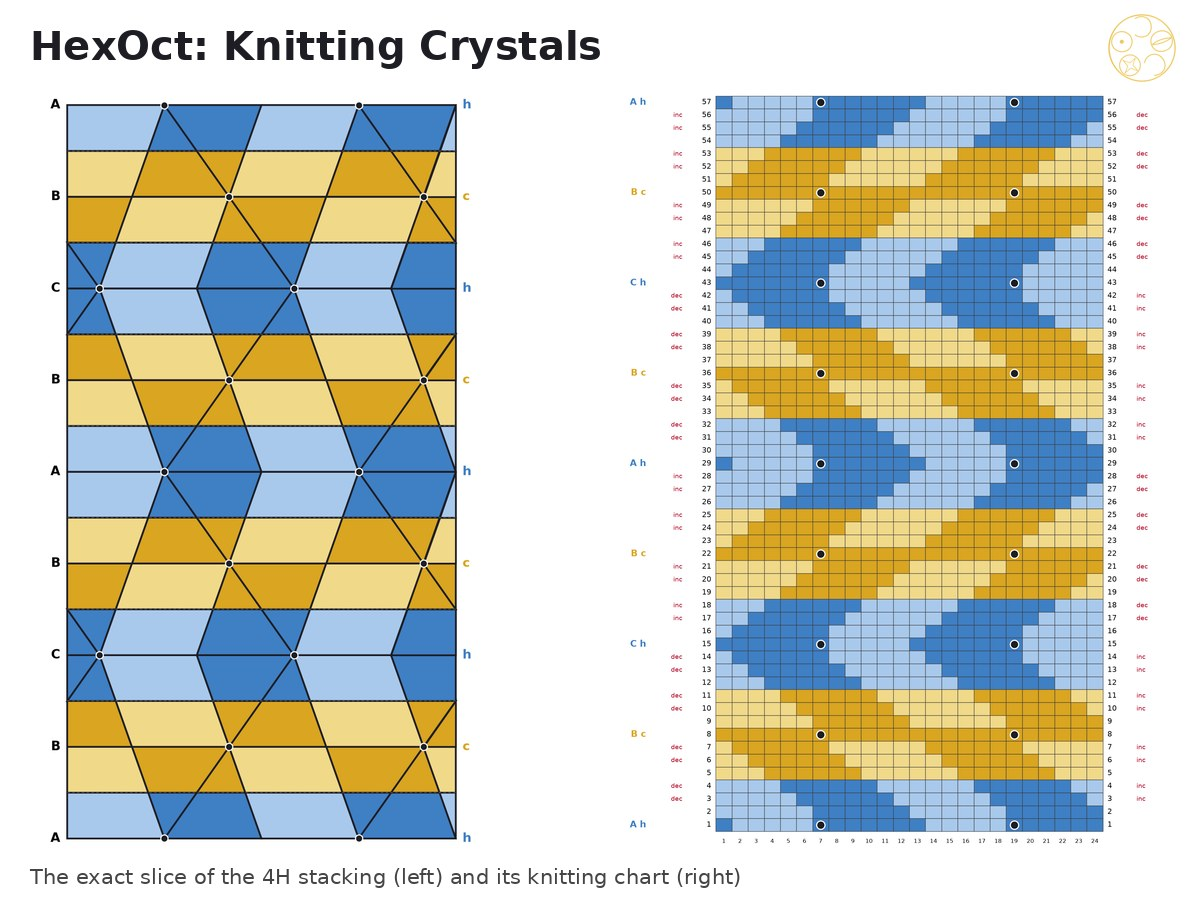
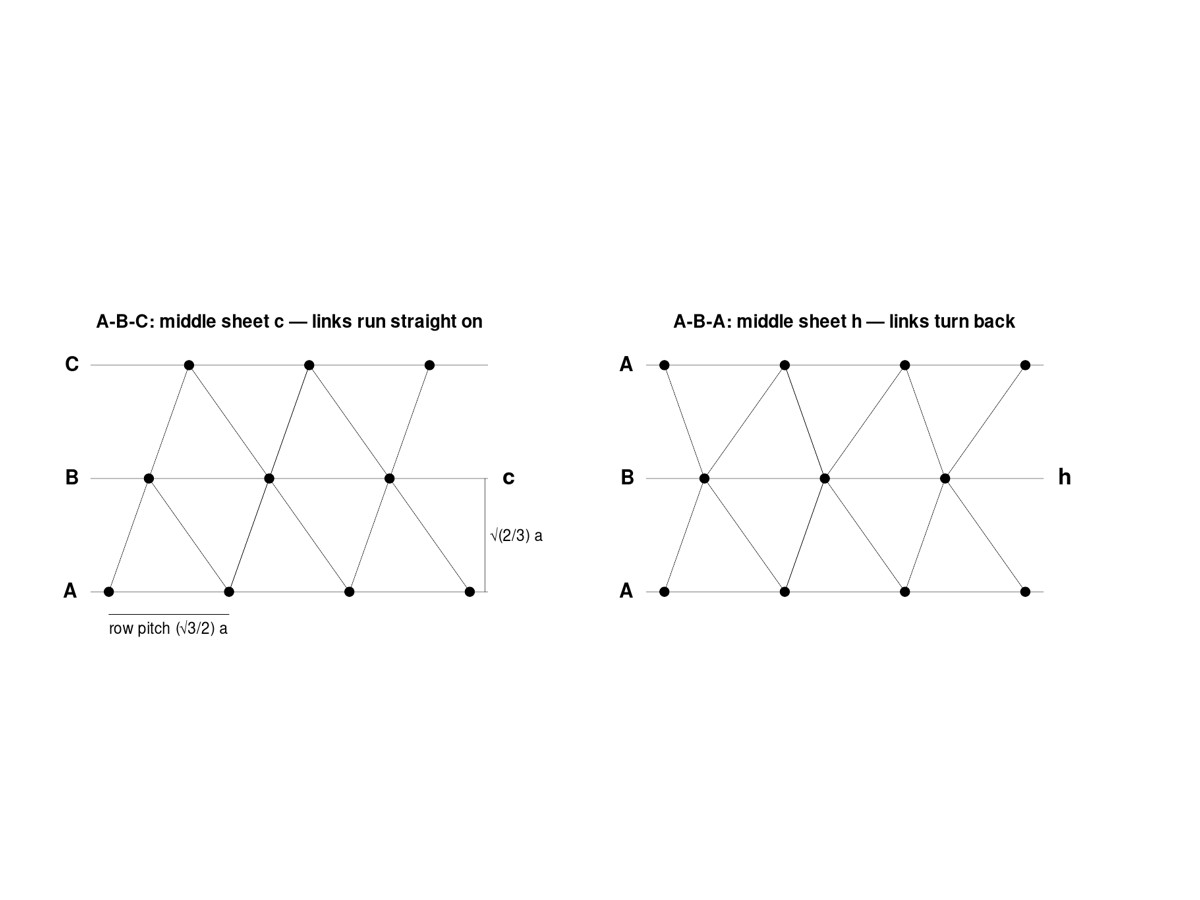
#83 card back (version 4, the Knitted HexOct), new picture, news 3 Nov 2026

diff --git a/index.html b/index.html
@@ -173,6 +173,7 @@
       <div class="paper"><img src="papers/vajrayana.jpg?v=3" alt="Vajrayana: the Cleo star build pulled apart, assembled inside the dodecahedron D′, and in the cycle; below, the twelve stations of the golden cycle at true scale" loading="lazy" width="1776" height="999"><span class="t"><span class="num">#35</span> Vajrayana</span><span class="s">A companion to Progenitors. The dodecahedron returns inside the golden cycle as the hull of DICTO's Cleo star, filled exactly by 82 pieces of four kinds. The last loose step, from the rhombic triacontahedron to the next icosahedron, is closed by a new solid that touches both, the DICTO Metaxyhexecontahedron, each of its two layers one kind of piece. The cycle grows to twelve stations. Exact in every step.</span><a class="inbook" href="https://doi.org/10.5281/zenodo.23752452">In the book: The Golden Cycle</a><a class="inbook" href="https://doi.org/10.5281/zenodo.23754454">In the book: Quanta of Space</a><span class="pdoi"><a class="doi-badge" href="https://doi.org/10.5281/zenodo.23429911" title="DICTO DOI, always the newest version"><span>DICTO DOI</span><span>10.5281/zenodo.23429911</span></a></span><span class="btns"><a class="btn" href="https://doi.org/10.5281/zenodo.23429911">Read paper</a><a class="btn" href="https://kaleidohedra.dictospheres.com/?open=vajrayana">View in app</a></span></div>
       <div class="paper"><img src="papers/eccentric-pieces.jpg?v=1" alt="DICTO's seven eccentric pieces, Lahdeli, Chucky, the Triskelion Tetrahedron, the Dodeca-13 Wedge, Samson, Fang and Kagemusha, each in gold beside its star after three steps of the valley rule, and the FPD for contrast" loading="lazy" width="1200" height="900"><span class="t"><span class="num">#85</span> Eccentric Pieces</span><span class="s">Built upon again and again with DICTO's valley rule, the symmetric stars freeze while seven of his pieces keep growing. One angle decides it: with mirrored spikes, an edge of dihedral angle δ keeps its valley open through step k only if (k + 1)δ ≤ 360°, so the pieces with sharp edges grow on. DICTO proposed notch pieces for Kagemusha: with Maedate its star grows most, and with Kuwagata the star of mirrored spikes stops at step three.</span><a class="inbook" href="https://doi.org/10.5281/zenodo.23867732">In the book: Star Cores</a><span class="pdoi"><a class="doi-badge" href="https://doi.org/10.5281/zenodo.23850490" title="DICTO DOI, always the newest version"><span>DICTO DOI</span><span>10.5281/zenodo.23850490</span></a></span><span class="btns"><a class="btn" href="https://doi.org/10.5281/zenodo.23850490">Read paper</a></span></div>
       <div class="paper"><img src="papers/window-law.jpg?v=1" alt="The Window Law in one picture: every two-letter stacking as a point in the plane of hexagonality and the share of hh pairs, perovskite polytypes, random stackings, Frank–Kasper and square–triangle words and the 1D approximants; and every family on one diagonal" loading="lazy" width="1200" height="900"><span class="t"><span class="num">#84</span> The Window Law</span><span class="s">DICTO's Hexagonality Law is the first case of a more general law: whatever a stack of close-packed layers fixes through a window of g layers is a straight-line mix of the shares of its c/h words of length g. At two layers one more number enters, and DICTO's Swap Rule is exactly the condition for a count to stay on the straight line in hexagonality. Tested with exact counts on perovskites, Frank–Kasper phases and quasicrystal approximants.</span><a class="inbook" href="https://doi.org/10.5281/zenodo.23731359">In the book: HexOct</a><span class="pdoi"><a class="doi-badge" href="https://doi.org/10.5281/zenodo.23848832" title="DICTO DOI, always the newest version"><span>DICTO DOI</span><span>10.5281/zenodo.23848832</span></a></span><span class="btns"><a class="btn" href="https://doi.org/10.5281/zenodo.23848832">Read paper</a></span></div>
+<div class="paper"><img src="papers/hexoct-knitting.jpg?v=2" alt="HexOct: Knitting Crystals: two knitted sheets linked to a third, the links running straight on at a c layer and turning back at an h layer" loading="lazy" width="1200" height="900"><span class="t"><span class="num">#83</span> HexOct: Knitting Crystals</span><span class="s">DICTO proposed a fabric that is a crystal: knitted sheets as the close-packed layers, linking yarns that run straight on at a c layer and turn back at an h layer, so any stacking can be knitted into the fabric's own thickness. Version 4: the construction by hand and by machine, the mechanics and the comfort. Every stacking weighs and squashes the same; only the see-through area and the shear change. Test pieces not yet knitted.</span><span class="pdoi"><a class="doi-badge" href="https://doi.org/10.5281/zenodo.23848271" title="DICTO DOI, always the newest version"><span>DICTO DOI</span><span>10.5281/zenodo.23848271</span></a></span><span class="btns"><a class="btn" href="https://doi.org/10.5281/zenodo.23848271">Read paper</a><a class="btn" href="https://kaleidohedra.dictospheres.com/?open=hexoct:fib">View in app</a></span></div>
       <div class="paper"><img src="papers/core-cycles.jpg?v=1" alt="Core cycles: the truncated icosahedron, the turn with the icosahedron and dodecahedron of tips, its core and the core of the core, t²c² times larger; below the same for the Icosaxes with the octahedron and cube of tips" loading="lazy" width="1200" height="900"><span class="t"><span class="num">#81</span> Core Cycles: when the cores of DICTO's star chains alternate</span><span class="s">Turn a solid's face pyramids outwards and keep only what the wrappings of each kind of tip share: for the truncated icosahedron this inner solid swaps the depths of the pentagons and hexagons, and the next turn swaps them back. DICTO proposed that this holds for every solid with two families of face planes, and we prove it: two turns give the solid back, scaled by one fixed factor whatever the depths. It accounts exactly for 28 of the 29 returning cores of DICTO's shapes.</span><span class="pdoi"><a class="doi-badge" href="https://doi.org/10.5281/zenodo.23846772" title="DICTO DOI, always the newest version"><span>DICTO DOI</span><span>10.5281/zenodo.23846772</span></a></span><span class="btns"><a class="btn" href="https://doi.org/10.5281/zenodo.23846772">Read paper</a><a class="btn" href="https://polyhedraverse.dictospheres.com/?open=starstep:TRUNCATED_ICOSAHEDRON">View in app</a></span></div>
       <div class="paper"><img src="papers/growth-rule-gains.jpg?v=2" alt="Two steps of DICTO's rule T: the cube inside its octahedron inside a cube three times larger, and the dodecahedron inside its icosahedron inside a dodecahedron 15 − 6√5 times larger" loading="lazy" width="1200" height="900"><span class="t"><span class="num">#80</span> The Gains of DICTO's Growth Rule</span><span class="s">DICTO's growth rule T puts a face through every corner of a solid; run again and again, it carries some solids back to their own shape, larger, by a factor, the chain's gain. DICTO noticed that the four-step factors of his star chains in #78, 4.944 and 11.542, come close to 5 and 12, and proposed that such factors might form a new series of ratios; we find every gain exactly, among the Platonic, Archimedean and Catalan solids and ten of DICTO's solids, which explains DICTO's near-misses exactly.</span><span class="pdoi"><a class="doi-badge" href="https://doi.org/10.5281/zenodo.23822907" title="DICTO DOI, always the newest version"><span>DICTO DOI</span><span>10.5281/zenodo.23822907</span></a></span><span class="btns"><a class="btn" href="https://doi.org/10.5281/zenodo.23822907">Read paper</a><a class="btn" href="https://polyhedraverse.dictospheres.com/?open=starstep:CUBE:2">View in app</a></span></div>
       <div class="paper"><img src="papers/star-cores.jpg?v=1" alt="Twelve of DICTO's shapes as stars with polar spikes inside their see-through halos, spikes violet and teal: GTI, FPD, OG, OCD Stella, DBT, OTT, TI Hecatodihedron, Red King, Tweedledum, Lion, Star Halo and TI Star core" loading="lazy" width="1200" height="900"><span class="t"><span class="num">#79</span> Star Cores of DICTO's Solids</span><span class="s">DICTO proposed giving every one of his new shapes the star core treatment of the TI Star: face pyramids turned outwards and wrapped in a halo. Proved, and checked on the 48 convex shapes of DICTO Solids cut into face pyramids: with each spike's tip at the pole of its face plane, the halo is the solid's polar and the layer between star and halo is tiled exactly by one pyramid over each corner and one tetrahedron over each edge, for every convex solid with its centre inside.</span><span class="pdoi"><a class="doi-badge" href="https://doi.org/10.5281/zenodo.23822905" title="DICTO DOI, always the newest version"><span>DICTO DOI</span><span>10.5281/zenodo.23822905</span></a></span><span class="btns"><a class="btn" href="https://doi.org/10.5281/zenodo.23822905">Read paper</a><a class="btn" href="https://polyhedraverse.dictospheres.com/?open=starstep:TRUNCATED_ICOSAHEDRON">View in app</a></span></div>
@@ -247,6 +248,7 @@
 
     <h2>What's new</h2>
     <ul class="news">
+      <li><span class="d">3 Nov 2026</span> <b>HexOct: Knitting Crystals</b> (#83, version 4, DICTO DOI: <a href="https://doi.org/10.5281/zenodo.23848271">10.5281/zenodo.23848271</a>): the Knitted HexOct, a fabric whose layers are a crystal: construction, mechanics and comfort for every close-packed stacking.</li>
       <li><span class="d">Say hello</span> <b>Drop us a tetrapod</b>: our visitor book is a heap of tetrapods on the Misaki coast, Osaka Bay, and every visit adds one: <a href="tetrapods/">drop yours</a>.</li>
       <li><span class="d">2 Nov 2026</span> <b>Book: Star Cores: Spikes, Halos and Cycles (Cycles of Growth, Part II)</b> (DICTO DOI: <a href="https://doi.org/10.5281/zenodo.23867732">10.5281/zenodo.23867732</a>): five papers on DICTO's stars, halos, cores and cycles, with a card for each of 60 shapes; 131 pages.</li>
       <li><span class="d">2 Nov 2026</span> <b>Eccentric Pieces</b> (#85, DICTO DOI: <a href="https://doi.org/10.5281/zenodo.23850490">10.5281/zenodo.23850490</a>): the valley law, by which DICTO's symmetric stars freeze while his sharp-edged pieces keep growing.</li>
